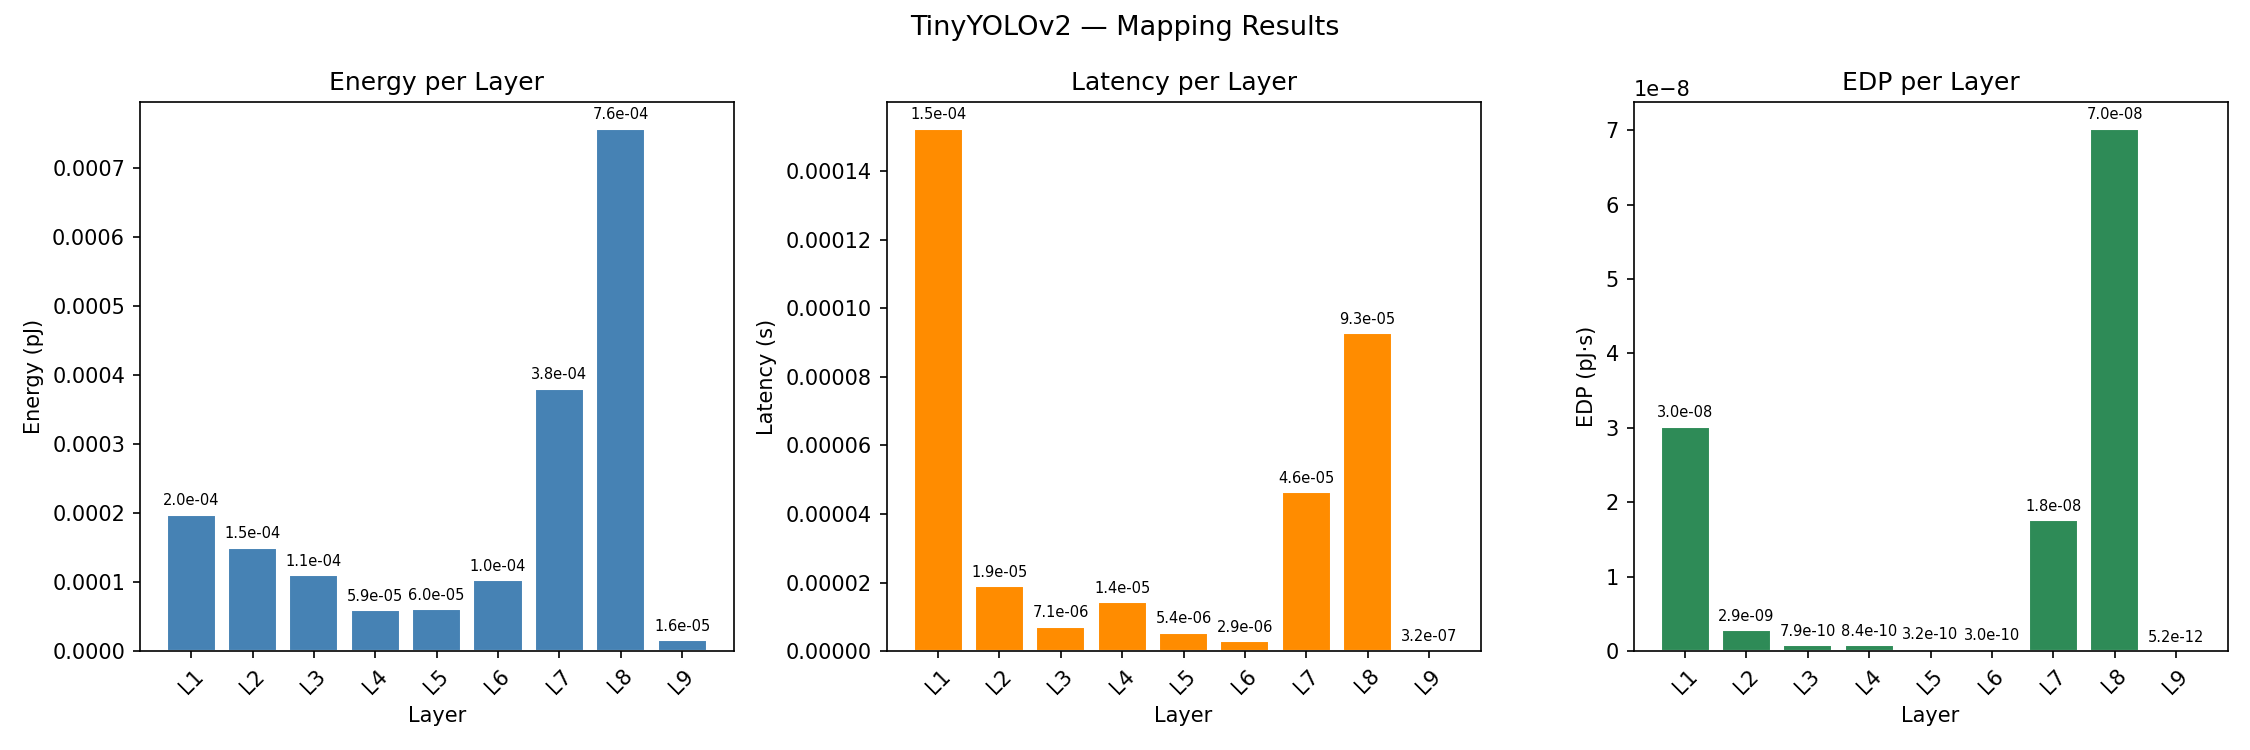
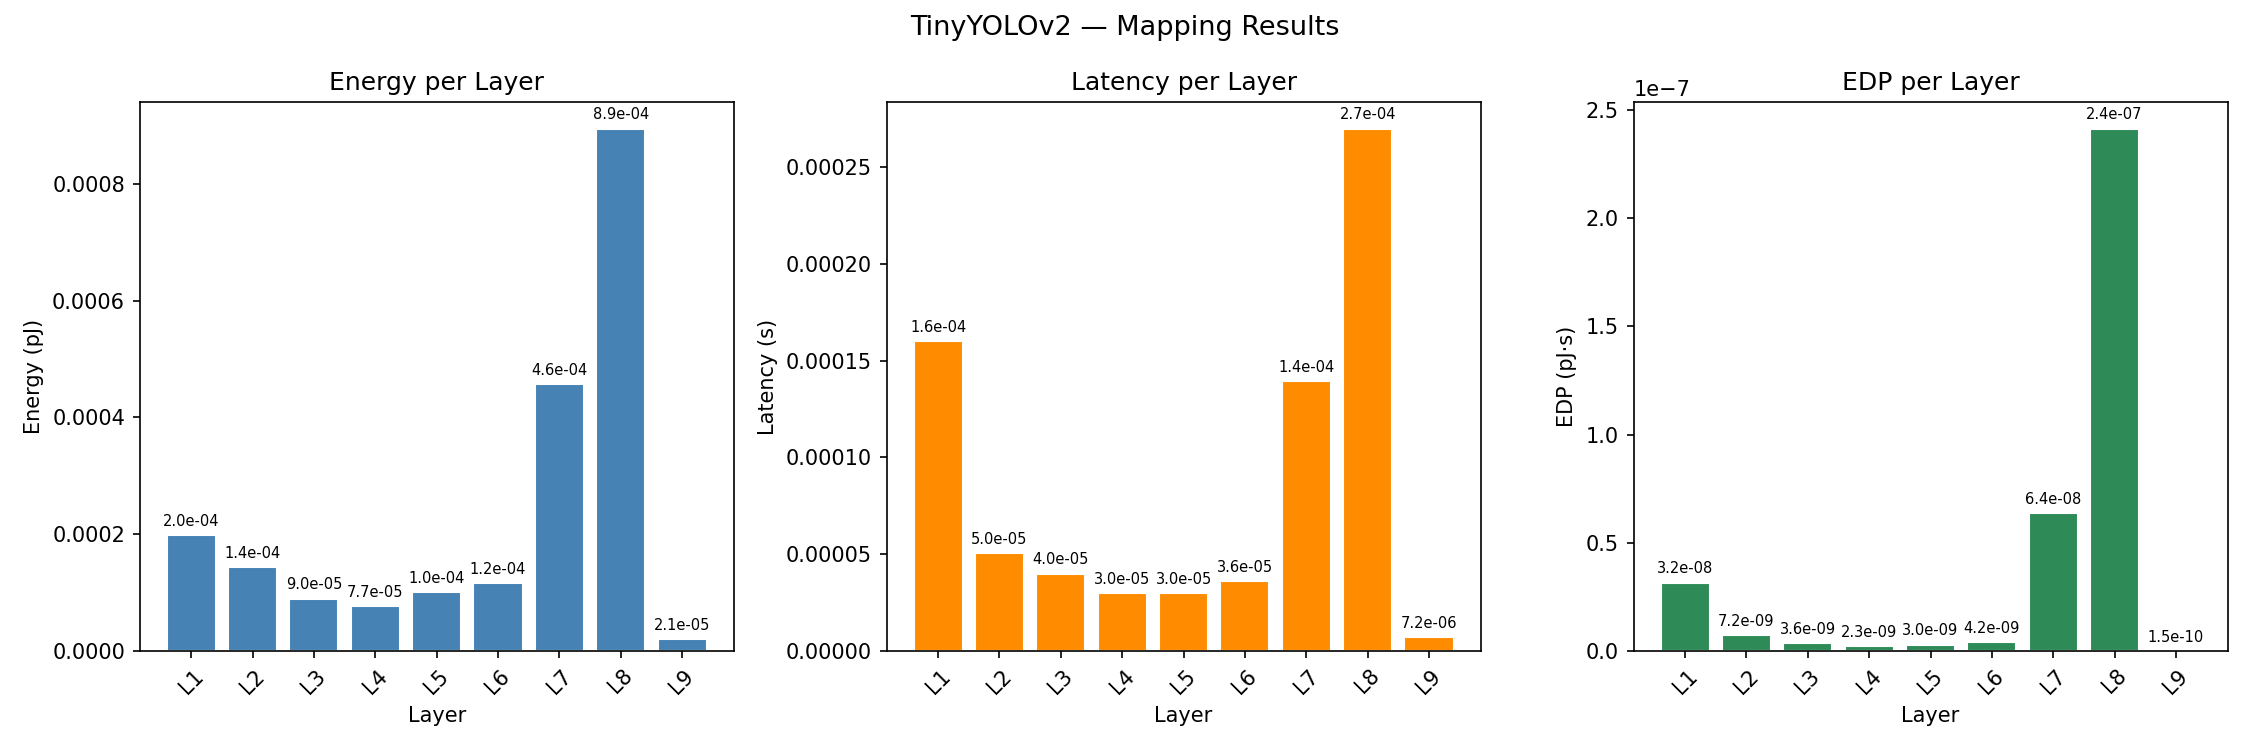
New plotting for edp comparison

diff --git a/new_workspace/scripts/plot_edp_comparison.py b/new_workspace/scripts/plot_edp_comparison.py
@@ -1,0 +1,99 @@
+import accelforge as af
+from pathlib import Path
+import matplotlib.pyplot as plt
+
+WORKSPACE    = Path(__file__).resolve().parent.parent
+WORKLOAD_SRC = str(WORKSPACE / "workloads" / "tiny_yolo_test.yaml")
+
+# Define the three architectures to compare
+ARCHITECTURES = {
+    "Custom": "custom_accelerator_sweep_NON_IDEAL.yaml",
+    "NVDLA": "nvdla_accelerator.yaml",
+    "TPUv4": "tpuv4_accelerator.yaml"
+}
+
+FANOUT_X = 8
+FANOUT_Y = 8
+LAYERS = ["L1", "L2", "L3", "L4", "L5", "L6", "L7", "L8", "L9"]
+
+def min_edp_filter(df):
+    return (df["Total<SEP>energy"] * df["Total<SEP>latency"]).argmin()
+
+# Dictionaries to store the layer-wise results for all architectures
+results_energy  = {arch: [] for arch in ARCHITECTURES}
+results_latency = {arch: [] for arch in ARCHITECTURES}
+results_edp     = {arch: [] for arch in ARCHITECTURES}
+
+print("Running workload mapping for all accelerators. This may take a moment...\n")
+
+# Iterate through each architecture, run the mapping, and extract data
+for arch_name, arch_filename in ARCHITECTURES.items():
+    arch_src = str(WORKSPACE / "arches" / arch_filename)
+    
+    # Jinja params are safely passed to all; unused ones will be ignored by NVDLA/TPUv4
+    spec = af.Spec.from_yaml(
+        arch_src, 
+        WORKLOAD_SRC,
+        jinja_parse_data={
+            "GLB_KB"  : 1024,
+            "FREQ_GHZ": 1.0,
+            "FANOUT_X": FANOUT_X,
+            "FANOUT_Y": FANOUT_Y,
+        }
+    )
+
+    mappings = spec.map_workload_to_arch()
+    data     = mappings.data.iloc[[min_edp_filter(mappings.data)]]
+    cols     = data.columns.tolist()
+
+    # Extract per-layer energy and latency
+    for layer in LAYERS:
+        e_cols = [c for c in cols if c.startswith(f"{layer}<SEP>energy<SEP>")]
+        l_cols = [c for c in cols if c.startswith(f"{layer}<SEP>latency<SEP>")]
+        
+        e = data[e_cols].sum(axis=1).values[0]
+        l = data[l_cols].max(axis=1).values[0]
+        
+        results_energy[arch_name].append(e)
+        results_latency[arch_name].append(l)
+        results_edp[arch_name].append(e * l)
+        
+    print(f"[{arch_name}] processing complete.")
+
+# --- Plotting ---
+fig, axes = plt.subplots(1, 3, figsize=(16, 5))
+fig.suptitle("TinyYOLOv2 — Multi-Accelerator Architecture Comparison", fontsize=14)
+
+markers = ['o', 's', '^']
+colors  = ['steelblue', 'darkorange', 'seagreen']
+
+def line_plot(ax, data_dict, title, ylabel):
+    for i, (arch_name, values) in enumerate(data_dict.items()):
+        ax.plot(
+            LAYERS, values, 
+            marker=markers[i], 
+            color=colors[i], 
+            label=arch_name, 
+            linewidth=2, 
+            markersize=6
+        )
+    ax.set_title(title)
+    ax.set_xlabel("Layer")
+    ax.set_ylabel(ylabel)
+    ax.set_yscale("log")  # Enforce log scale due to magnitude disparities
+    ax.grid(True, which="both", ls="--", alpha=0.4)
+    ax.legend()
+    ax.tick_params(axis="x", rotation=45)
+
+line_plot(axes[0], results_energy,  "Energy per Layer",  "Energy (pJ) [Log]")
+line_plot(axes[1], results_latency, "Latency per Layer", "Latency (s) [Log]")
+line_plot(axes[2], results_edp,     "EDP per Layer",     "EDP (pJ·s) [Log]")
+
+plt.tight_layout()
+
+out = WORKSPACE / "outputs"
+out.mkdir(exist_ok=True)
+out_file = out / "mapping_results_comparison.png"
+plt.savefig(out_file, dpi=150)
+print(f"\nComparison plot saved to {out_file}")
+plt.show()

diff --git a/new_workspace/scripts/plot_edp.py b/new_workspace/scripts/plot_edp.py
@@ -5,7 +5,7 @@ import matplotlib.pyplot as plt
 WORKSPACE    = Path(__file__).resolve().parent.parent
 WORKLOAD_SRC = str(WORKSPACE / "workloads" / "tiny_yolo_test.yaml")
 # ARCH_SRC     = str(WORKSPACE / "arches"    / "custom_accelerator_sweep.yaml")
-ARCH_SRC     = str(WORKSPACE / "arches"    / "tpuv4_accelerator.yaml")
+ARCH_SRC     = str(WORKSPACE / "arches"    / "nvdla_accelerator.yaml")
 FANOUT_X = 8
 FANOUT_Y = 8
 
